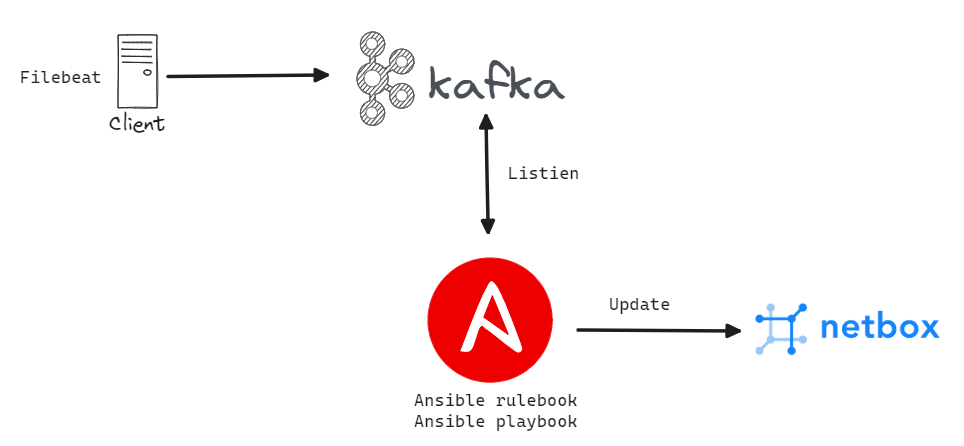
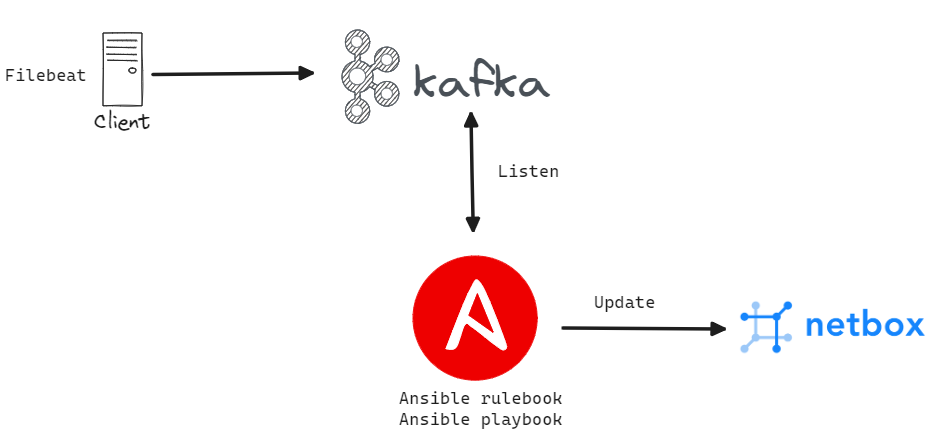
Sửa lỗi theo BOT chỉ đạo
Sửa lỗi theo BOT chỉ đạo

diff --git a/netbox-journal/Readme.md b/netbox-journal/Readme.md
@@ -8,7 +8,7 @@
 ### Mô tả:
 
 - Các máy client sẽ cài đặt filebeat để gửi log của journald trong linux để đẩy về Kafka.  Trong ví dụ này sẽ lấy journald của dịch vụ Apache2
-- EDA ansible sẽ listien topic trên kafka, sau đó trigger các event theo điều kiện.
+- EDA ansible sẽ listen topic trên kafka, sau đó trigger các event theo điều kiện.
 - Khi điều kiện có nội dung `Stopped The Apache HTTP Server.` thì sẽ thực hiện playbook để gọi API tới netbox và thực hiện cập nhật journal cho VM có IP tương ứng.
 
 
